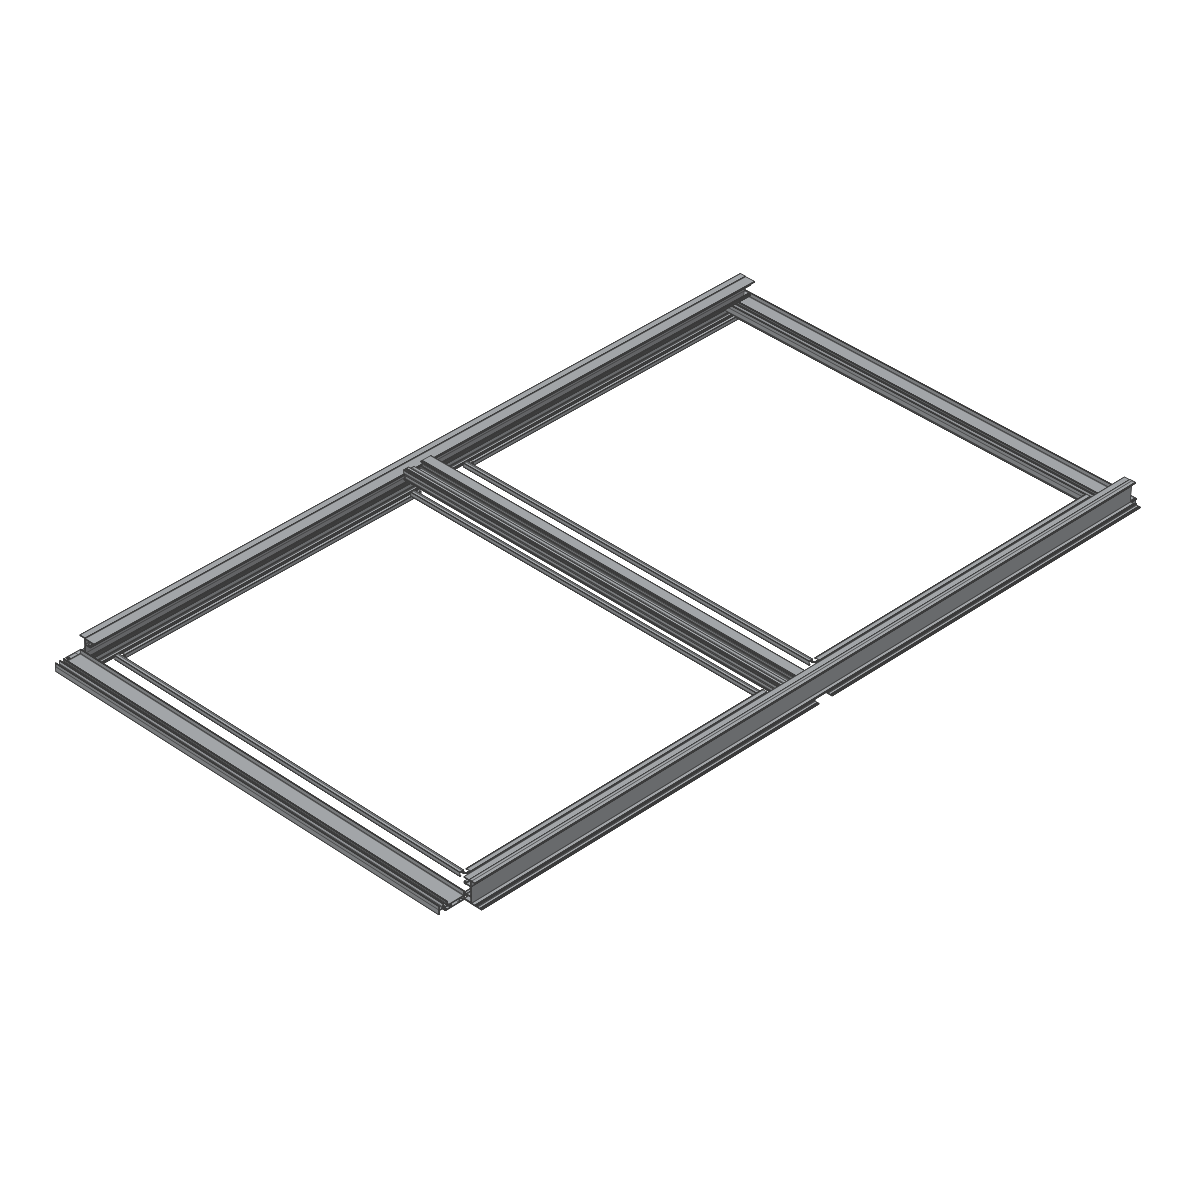
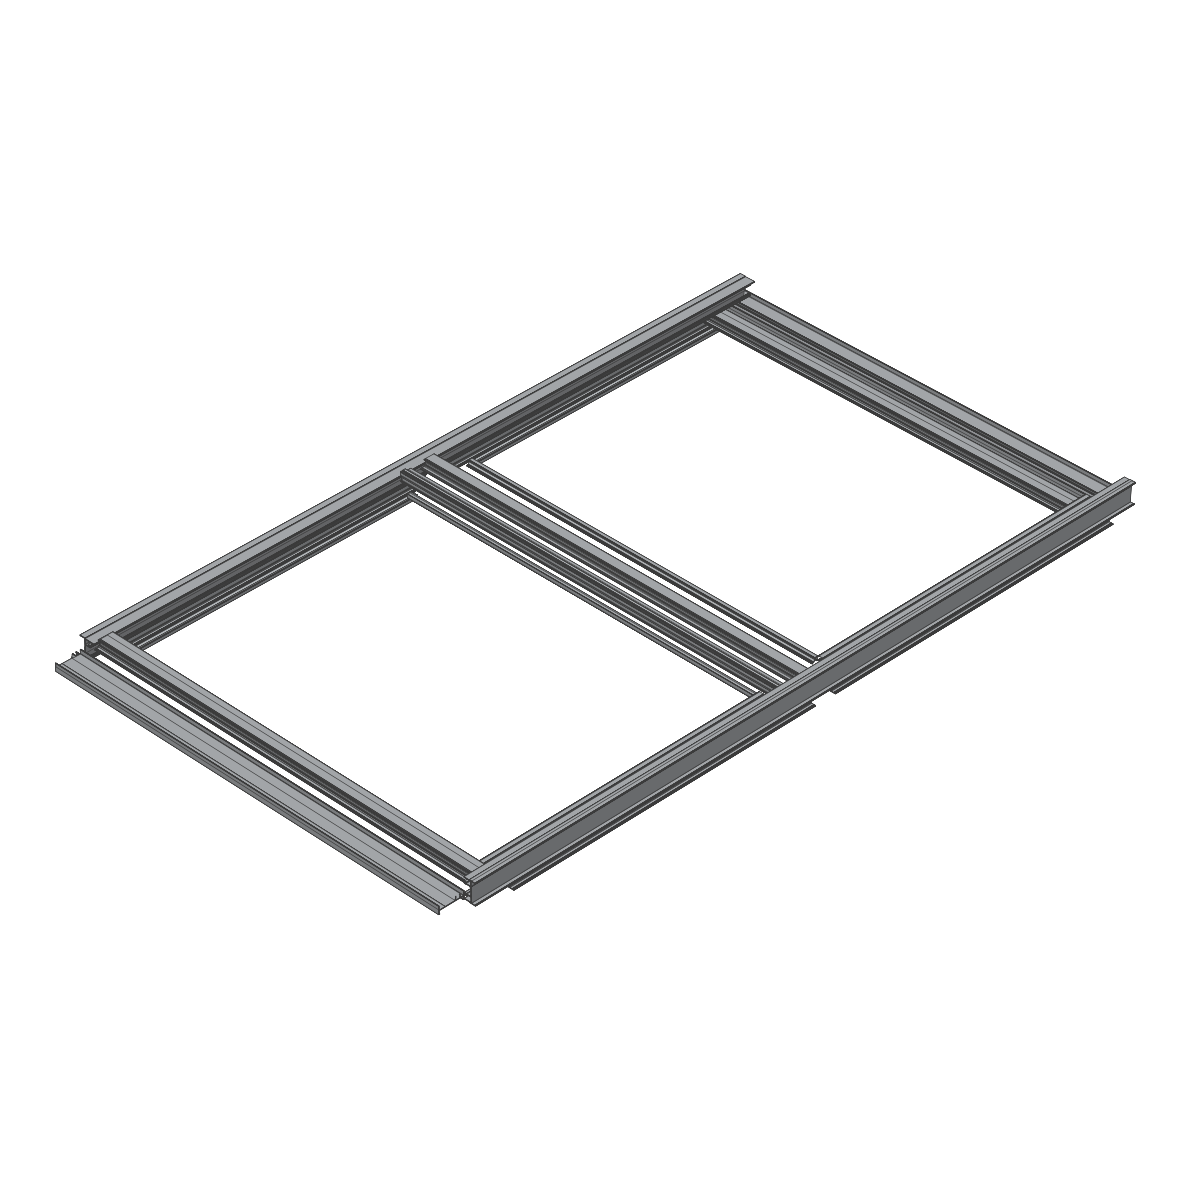
fix(visualizacao): corrige legibilidade e propoe correcao de orientacao (feedback visual do Bruno)
Diagnostico empirico dos seis perfis apontados na validacao visual:

- SU-039 (montante lateral) e SU-053 (travessa) NAO apareciam porque eram
  desenhados nas MESMAS coordenadas do quadro (SU-003/SU-001/SU-002) —
  ficavam ocultos atras dele. Nova constante MARGEM_FOLHA_QUADRO_MM (90mm,
  acima da maior largura de perfil observada ~71mm) recua a folha da face
  do quadro. Puramente de desenho, sem relacao com folga de encaixe real.

- SU-040/SU-041 (montante central) se sobrepunham ~2,4mm: a largura real da
  geometria homologada e 42,4mm, maior que a folga ilustrativa anterior de
  40mm. FOLGA_ENCONTRO_CENTRAL_MM sobe para 60mm, que excede a largura real
  com margem — agora ha lacuna visivel, nao sobreposicao, como o comentario
  original do modulo ja prometia.

- SU-003 e SU-102: geometria homologada confirmada ASSIMETRICA (espelhar o
  contorno produz forma mensuravelmente diferente, nao a mesma peca) — Bruno
  nao conseguiu determinar visualmente qual sentido esta correto. Proposta:
  core_engine/renderer.py passa a suportar rotacao_graus em {0,90,180,270},
  onde 180/270 espelham a secao transversal no mesmo eixo de 0/90
  (comportamento de 0/90 inalterado, backward-compatible). Espelhado o
  segundo membro de cada par visual (QUADRO-LATERAL-2, baguetes
  base/direita), mantendo o primeiro como referencia. ISTO E HIPOTESE, nao
  fato resolvido — aguarda nova conferencia visual do Bruno.

composicao/receita.py, gates e regras dimensionais NAO tocados (mesma
[…]

diff --git a/composicao/visualizacao.py b/composicao/visualizacao.py
@@ -34,12 +34,26 @@ ALTURA_ILUSTRATIVA_MM = 1200.0
 # de desenho, para que o "encontro central" seja visível como uma lacuna, não
 # como uma sobreposição. Não é a sobreposição real (E.4E registra que ela é
 # dimensional e segue PENDENTE).
-FOLGA_ENCONTRO_CENTRAL_MM = 40.0
+#
+# 60mm, não 40mm: a largura real da geometria homologada do SU-040/SU-041 é
+# 42,4mm — com 40mm de folga as duas peças se sobrepunham em ~2,4mm em vez de
+# deixar a lacuna visível que o comentário acima promete (achado da correção
+# visual pós-validação do Bruno, PR #15).
+FOLGA_ENCONTRO_CENTRAL_MM = 60.0
 
 # Margem entre o baguete (moldura do vidro) e a face interna da folha —
 # ilustrativa, não é a folga de encaixe do vidro (pergunta aberta ao
 # especialista, ver receita.PERGUNTAS_ABERTAS).
 MARGEM_BAGUETE_MM = 60.0
+
+# Margem entre a face externa da folha (montante lateral / travessas) e o
+# quadro (marco) — ilustrativa, escolhida para exceder a maior largura de
+# perfil observada nesta composição (~71mm, SU-001/002/003), garantindo que
+# a folha não desenhe por cima do quadro. Sem essa margem, SU-039 (montante
+# lateral) e SU-053 (travessa) caíam exatamente nas mesmas coordenadas do
+# marco e ficavam ocultos atrás dele (achado da correção visual pós-validação
+# do Bruno, PR #15) — não é folga de encaixe real, é só separação de desenho.
+MARGEM_FOLHA_QUADRO_MM = 90.0
 
 _LARGURA_FOLHA = (LARGURA_ILUSTRATIVA_MM - FOLGA_ENCONTRO_CENTRAL_MM) / 2
 
@@ -101,18 +115,26 @@ def _posicao_e_comprimento(componente: ComponenteReceita) -> tuple[tuple[float, 
     x0 = _X_INICIO_FOLHA[componente.folha]
 
     if papel is PapelComponente.MONTANTE_LATERAL_FOLHA:
+        # Recuado MARGEM_FOLHA_QUADRO_MM da face do quadro (ver comentário na
+        # constante) — sem o recuo, cai exatamente sobre o marco lateral.
         lado = "esquerda" if _LADO_DO_MONTANTE_CENTRAL[componente.folha] == "direita" \
             else "direita"
-        x = x0 if lado == "esquerda" else x0 + _LARGURA_FOLHA
+        x = x0 + MARGEM_FOLHA_QUADRO_MM if lado == "esquerda" \
+            else x0 + _LARGURA_FOLHA - MARGEM_FOLHA_QUADRO_MM
         return (x, 0.0), ALTURA_ILUSTRATIVA_MM
     if papel is PapelComponente.MONTANTE_CENTRAL_FOLHA:
         lado = _LADO_DO_MONTANTE_CENTRAL[componente.folha]
         x = x0 if lado == "esquerda" else x0 + _LARGURA_FOLHA
         return (x, 0.0), ALTURA_ILUSTRATIVA_MM
-    if papel is PapelComponente.TRAVESSA_SUPERIOR_FOLHA:
-        return (x0, ALTURA_ILUSTRATIVA_MM), _LARGURA_FOLHA
-    if papel is PapelComponente.TRAVESSA_INFERIOR_FOLHA:
-        return (x0, 0.0), _LARGURA_FOLHA
+    if papel in (PapelComponente.TRAVESSA_SUPERIOR_FOLHA,
+                PapelComponente.TRAVESSA_INFERIOR_FOLHA):
+        # Recua só a ponta que toca o quadro (a ponta do encontro central já
+        # tem folga suficiente via FOLGA_ENCONTRO_CENTRAL_MM) — mesmo motivo
+        # do recuo do montante lateral, mesma constante.
+        x_travessa = x0 + MARGEM_FOLHA_QUADRO_MM if componente.folha == PLANO_INTERNO else x0
+        comprimento_travessa = _LARGURA_FOLHA - MARGEM_FOLHA_QUADRO_MM
+        y = ALTURA_ILUSTRATIVA_MM if papel is PapelComponente.TRAVESSA_SUPERIOR_FOLHA else 0.0
+        return (x_travessa, y), comprimento_travessa
 
     if papel is PapelComponente.BAGUETE:
         sufixo = _sufixo_do_componente(componente)
@@ -133,6 +155,29 @@ def _posicao_e_comprimento(componente: ComponenteReceita) -> tuple[tuple[float, 
                      f"de desenho neste módulo")
 
 
+def _deve_espelhar(componente: ComponenteReceita) -> bool:
+    """Perfis de esquadria não são simétricos (confirmado na geometria
+    homologada de SU-003 e SU-102 — refletir o contorno produz uma forma
+    mensuravelmente diferente da original, não a mesma peça). Um par visual
+    esquerda/direita ou topo/base desenhado com a MESMA seção transversal nos
+    dois lados deixa pelo menos um deles de cabeça para trás. Espelha-se
+    sempre o segundo membro do par (LATERAL-2, base, direita), mantendo o
+    primeiro (LATERAL-1, topo, esquerda) como referência não alterada.
+
+    Achado da correção visual pós-validação do Bruno (PR #15): ele não
+    conseguiu determinar visualmente qual dos dois sentidos é o correto para
+    SU-003/SU-102 — esta é a escolha de desenho proposta para nova
+    conferência, não uma afirmação de que está definitivamente certa."""
+    papel = componente.papel
+    if papel is PapelComponente.MARCO_LATERAL:
+        return componente.identificador.endswith("LATERAL-2")
+    if papel is PapelComponente.BAGUETE:
+        sufixo = _sufixo_do_componente(componente)
+        lado = _ORDEM_DE_DESENHO_DO_BAGUETE[sufixo]
+        return lado in ("base", "direita")
+    return False
+
+
 def montar_cena_suprema_2f(receita=None) -> CenaTecnica:
     """Monta a Cena a partir da topologia JÁ CONFIRMADA — não deriva, não
     completa, não inventa ocorrência. Se a topologia mudar (novo papel, nova
@@ -145,6 +190,8 @@ def montar_cena_suprema_2f(receita=None) -> CenaTecnica:
     for c in receita.componentes:
         posicao_mm, comprimento_mm = _posicao_e_comprimento(c)
         rotacao_graus = 90.0 if c.orientacao == "vertical" else 0.0
+        if _deve_espelhar(c):
+            rotacao_graus += 180.0
         instancias.append(InstanciaCena(
             instancia_id=c.identificador,
             perfil_id=c.perfil.perfil_id_oficial,

diff --git a/core_engine/renderer.py b/core_engine/renderer.py
@@ -55,18 +55,29 @@ def resolver_geometria(perfil: Perfil,
 # ---------------------------------------------------------------------------
 
 def extrudar_perfil(contorno_mm, comprimento_mm, rotacao_graus, posicao_mm):
+    """`rotacao_graus` em {0, 90, 180, 270}. 0/90 escolhem o eixo de extrusão
+    (horizontal/vertical) e reproduzem exatamente o comportamento anterior a
+    E.4H-visual-fix. 180/270 usam o MESMO eixo que 0/90, respectivamente, mas
+    espelham a seção transversal em torno do próprio eixo local — necessário
+    porque perfis de esquadria não são simétricos (ex.: SU-003, SU-102): duas
+    ocorrências espelhadas do mesmo perfil (lado esquerdo vs. direito de um
+    par simétrico) precisam do espelho, não de outro ângulo de extrusão."""
     contorno = np.array(contorno_mm, dtype=float)
     n = len(contorno)
     dx, dy = posicao_mm
     secao_a = contorno[:, 0]
     secao_b = contorno[:, 1]
 
-    if abs(rotacao_graus - 90) < 1e-6:
-        v_inicio = np.stack([secao_a + dx, np.full(n, dy), secao_b], axis=1)
-        v_fim = np.stack([secao_a + dx, np.full(n, dy + comprimento_mm), secao_b], axis=1)
+    vertical = abs((rotacao_graus % 180) - 90) < 1e-6
+    espelhado = rotacao_graus >= 180 - 1e-6
+    a = (secao_a.max() - secao_a) if espelhado else secao_a
+
+    if vertical:
+        v_inicio = np.stack([a + dx, np.full(n, dy), secao_b], axis=1)
+        v_fim = np.stack([a + dx, np.full(n, dy + comprimento_mm), secao_b], axis=1)
     else:
-        v_inicio = np.stack([np.full(n, dx), secao_b + dy, secao_a], axis=1)
-        v_fim = np.stack([np.full(n, dx + comprimento_mm), secao_b + dy, secao_a], axis=1)
+        v_inicio = np.stack([np.full(n, dx), secao_b + dy, a], axis=1)
+        v_fim = np.stack([np.full(n, dx + comprimento_mm), secao_b + dy, a], axis=1)
 
     faces = [v_inicio.tolist(), v_fim.tolist()]
     for i in range(n):
@@ -82,16 +93,26 @@ def extrudar_com_furos(contorno_externo, vazios_internos, comprimento_mm,
 
     Validado em protótipo externo (Sprint E.2); portado aqui para a MESMA
     convenção de eixos do extrudar_perfil (o protótipo usava frame próprio,
-    que ignoraria rotacao/posicao e reintroduziria o bug de achatamento)."""
+    que ignoraria rotacao/posicao e reintroduziria o bug de achatamento).
+
+    Espelho (`rotacao_graus` 180/270, ver `extrudar_perfil`) usa como
+    referência o `secao_a.max()` do CONTORNO EXTERNO, nunca o de cada
+    polígono isoladamente — os vazios internos (furos) têm de espelhar em
+    torno do mesmo eixo do contorno que os contém, ou o furo se desloca em
+    relação à parede."""
+    vertical = abs((rotacao_graus % 180) - 90) < 1e-6
+    espelhado = rotacao_graus >= 180 - 1e-6
+    eixo_a_max = float(np.asarray(contorno_externo, dtype=float)[:, 0].max())
+
     def _mapear(pontos_2d, avanco):
         pts = np.asarray(pontos_2d, dtype=float)
         n = len(pts)
         dx, dy = posicao_mm
-        if abs(rotacao_graus - 90) < 1e-6:
-            return np.stack([pts[:, 0] + dx, np.full(n, dy + avanco),
-                             pts[:, 1]], axis=1)
-        return np.stack([np.full(n, dx + avanco), pts[:, 1] + dy,
-                         pts[:, 0]], axis=1)
+        a = (eixo_a_max - pts[:, 0]) if espelhado else pts[:, 0]
+        if vertical:
+            return np.stack([a + dx, np.full(n, dy + avanco), pts[:, 1]],
+                            axis=1)
+        return np.stack([np.full(n, dx + avanco), pts[:, 1] + dy, a], axis=1)
 
     faces = []
     for poligono in [contorno_externo] + list(vazios_internos or []):
